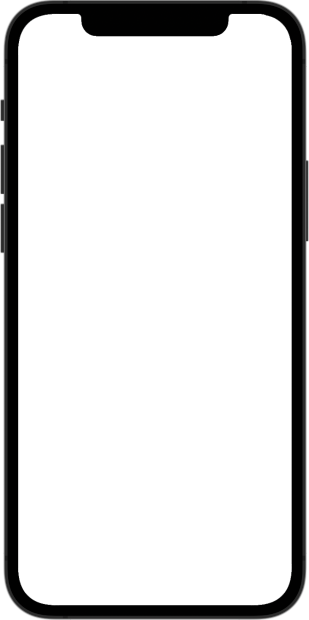
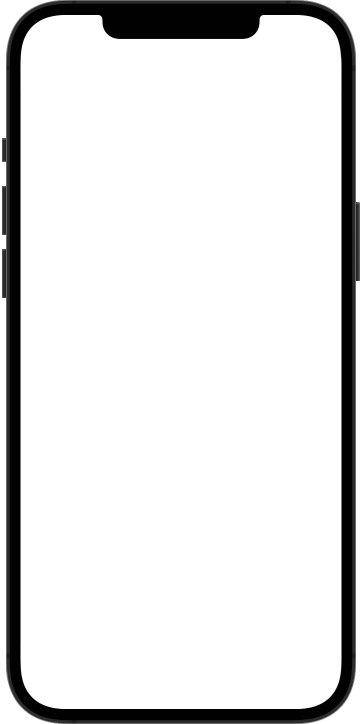
Updated UI

Changed region(s): [[0.0, 0.0, 1.0, 1.0]]

diff --git a/products/mobile/mobile.sass b/products/mobile/mobile.sass
@@ -4,6 +4,20 @@
   &:before
     content: ""
     display: block
+  .phone-bg
+    position: absolute
+    z-index: -1
+    left: -10%
+    top: 11%
+  .phone-shadow
+    position: absolute
+    z-index: -1
+    right: 1.9%
+    left: 1.9%
+    top: 0.3%
+    bottom: 0.9%
+    border-radius: 50px
+    box-shadow: 0 20px 20px rgba(0,0,0,.15), 0 30px 40px rgba(0,0,0,.15)
   .frame-video, .frame-image
     position: absolute
     top: 0
@@ -120,7 +134,7 @@
             .feature-des
               margin-bottom: 12px
     #bottom
-      margin-top: 160px
+      margin-top: 340px
       padding: 82px 0 124px
       text-align: center
       .getting-started

diff --git a/products/mobile/mobile-ce.sass b/products/mobile/mobile-ce.sass
@@ -4,12 +4,13 @@
       a
         color: #2A7DEC
     #bottom
+      background-color: #F9FBFE
       .getting-started
         background-color: #2A7DEC
         &:hover
-          background-color: #2A7DEC
+          background-color: #4F97F8
         &:active
-          background-color: #305680
+          background-color: #2A7DEC
     .read-more-button
       .arrow
         filter: invert(35%) sepia(96%) saturate(1837%) hue-rotate(202deg) brightness(98%) contrast(89%)

diff --git a/products/mobile-pe/mobile-pe.sass b/products/mobile-pe/mobile-pe.sass
@@ -4,6 +4,7 @@
       a
         color: #17BB52
     #bottom
+      background-color: #FAFAFA
       .getting-started
         background-color: #17BB52
         &:hover

diff --git a/products/mobile-pe/index.md b/products/mobile-pe/index.md
@@ -25,6 +25,8 @@ description:
                 </div>
                 <div class="preview">
                     <div class="mobile-frame ios">
+                        <img class="phone-bg" src="/images/mobile/pe/mobile-bg-pe.svg">
+                        <div class="phone-shadow pe"></div>
                         <div class="frame-image">
                             <img src="/images/mobile/pe/browse-dashboards-frame.png">
                         </div>
@@ -40,6 +42,8 @@ description:
             <div class="block vis">
                 <div class="preview">
                     <div class="mobile-frame ios">
+                        <img class="phone-bg" src="/images/mobile/pe/mobile-bg-pe.svg">
+                        <div class="phone-shadow pe"></div>
                         <div class="frame-image">
                             <img src="/images/mobile/pe/white-labeling-frame.png">
                         </div>
@@ -73,6 +77,8 @@ description:
                 </div>
                 <div class="preview">
                     <div class="mobile-frame ios">
+                        <img class="phone-bg" src="/images/mobile/pe/mobile-bg-pe.svg">
+                        <div class="phone-shadow pe"></div>
                         <div class="frame-image">
                             <img src="/images/mobile/pe/self-registration-frame.png">
                         </div>
@@ -88,6 +94,8 @@ description:
             <div class="block micro">
                 <div class="preview">
                     <div class="mobile-frame ios">
+                        <img class="phone-bg" src="/images/mobile/pe/mobile-bg-pe.svg">
+                        <div class="phone-shadow pe"></div>
                         <div class="frame-image">
                             <img src="/images/mobile/pe/manage-alarms-frame.png">
                         </div>
@@ -121,6 +129,8 @@ description:
                 </div>
                 <div class="preview">
                     <div class="mobile-frame ios">
+                        <img class="phone-bg" src="/images/mobile/pe/mobile-bg-pe.svg">
+                        <div class="phone-shadow pe"></div>
                         <div class="frame-image">
                             <img src="/images/mobile/pe/navigate-devices-frame.png">
                         </div>
@@ -136,6 +146,8 @@ description:
             <div class="block micro">
                 <div class="preview">
                     <div class="mobile-frame ios">
+                        <img class="phone-bg" src="/images/mobile/pe/mobile-bg-pe.svg">
+                        <div class="phone-shadow pe"></div>
                         <div class="frame-image">
                             <img src="/images/mobile/pe/mobile-actions-frame.png">
                         </div>

diff --git a/products/mobile/index.md b/products/mobile/index.md
@@ -25,6 +25,8 @@ description:
                 </div>
                 <div class="preview">
                     <div class="mobile-frame ios">
+                        <img class="phone-bg" src="/images/mobile/mobile-bg.svg">
+                        <div class="phone-shadow"></div>
                         <div class="frame-image">
                             <img src="/images/mobile/browse-dashboards-frame.png">
                         </div>
@@ -40,6 +42,8 @@ description:
             <div class="block vis">
                 <div class="preview">
                     <div class="mobile-frame ios">
+                        <img class="phone-bg" src="/images/mobile/mobile-bg.svg">
+                        <div class="phone-shadow"></div>
                         <div class="frame-image">
                             <img src="/images/mobile/manage-alarms-frame.png">
                         </div>
@@ -73,6 +77,8 @@ description:
                 </div>
                 <div class="preview">
                     <div class="mobile-frame ios">
+                        <img class="phone-bg" src="/images/mobile/mobile-bg.svg">
+                        <div class="phone-shadow"></div>
                         <div class="frame-image">
                             <img src="/images/mobile/navigate-devices-frame.png">
                         </div>
@@ -88,6 +94,8 @@ description:
             <div class="block micro">
                 <div class="preview">
                     <div class="mobile-frame ios">
+                        <img class="phone-bg" src="/images/mobile/mobile-bg.svg">
+                        <div class="phone-shadow"></div>
                         <div class="frame-image">
                             <img src="/images/mobile/mobile-actions-frame.png">
                         </div>
